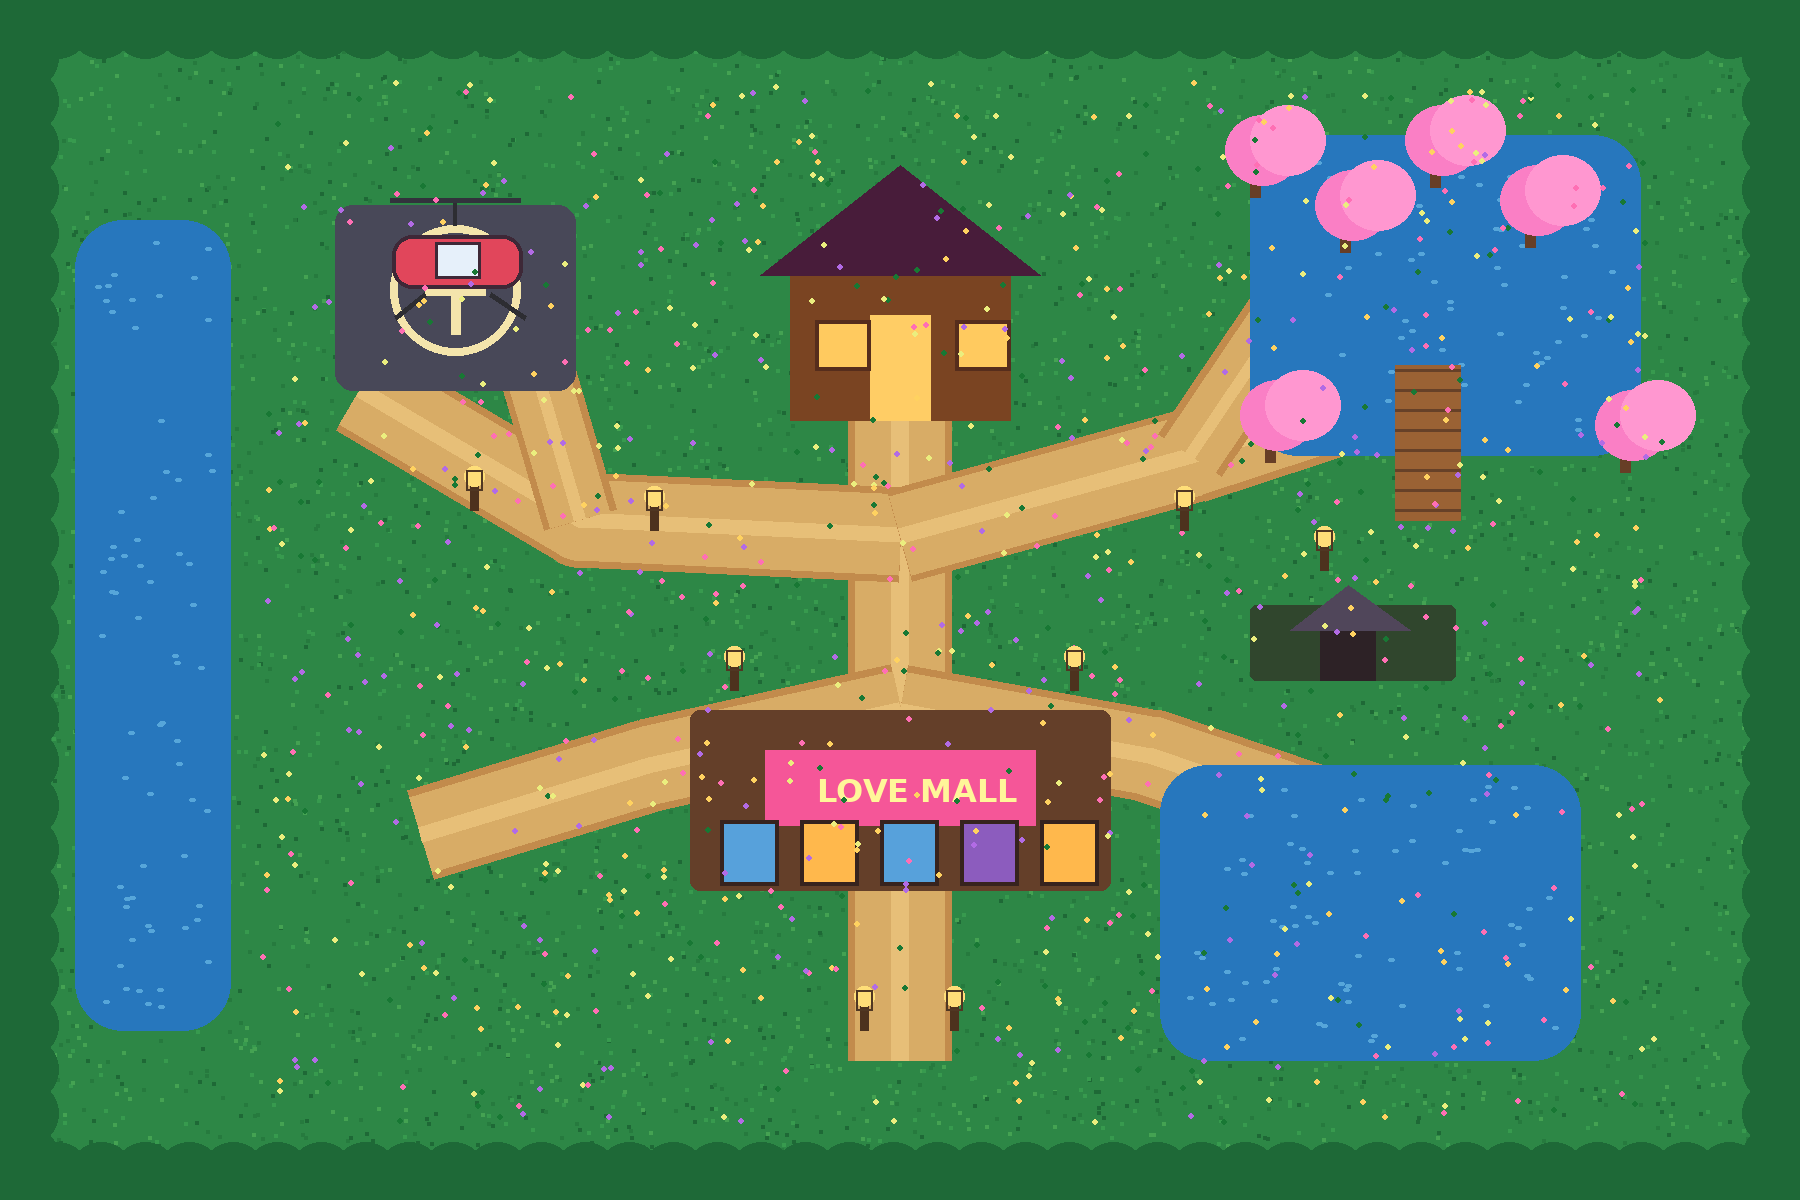
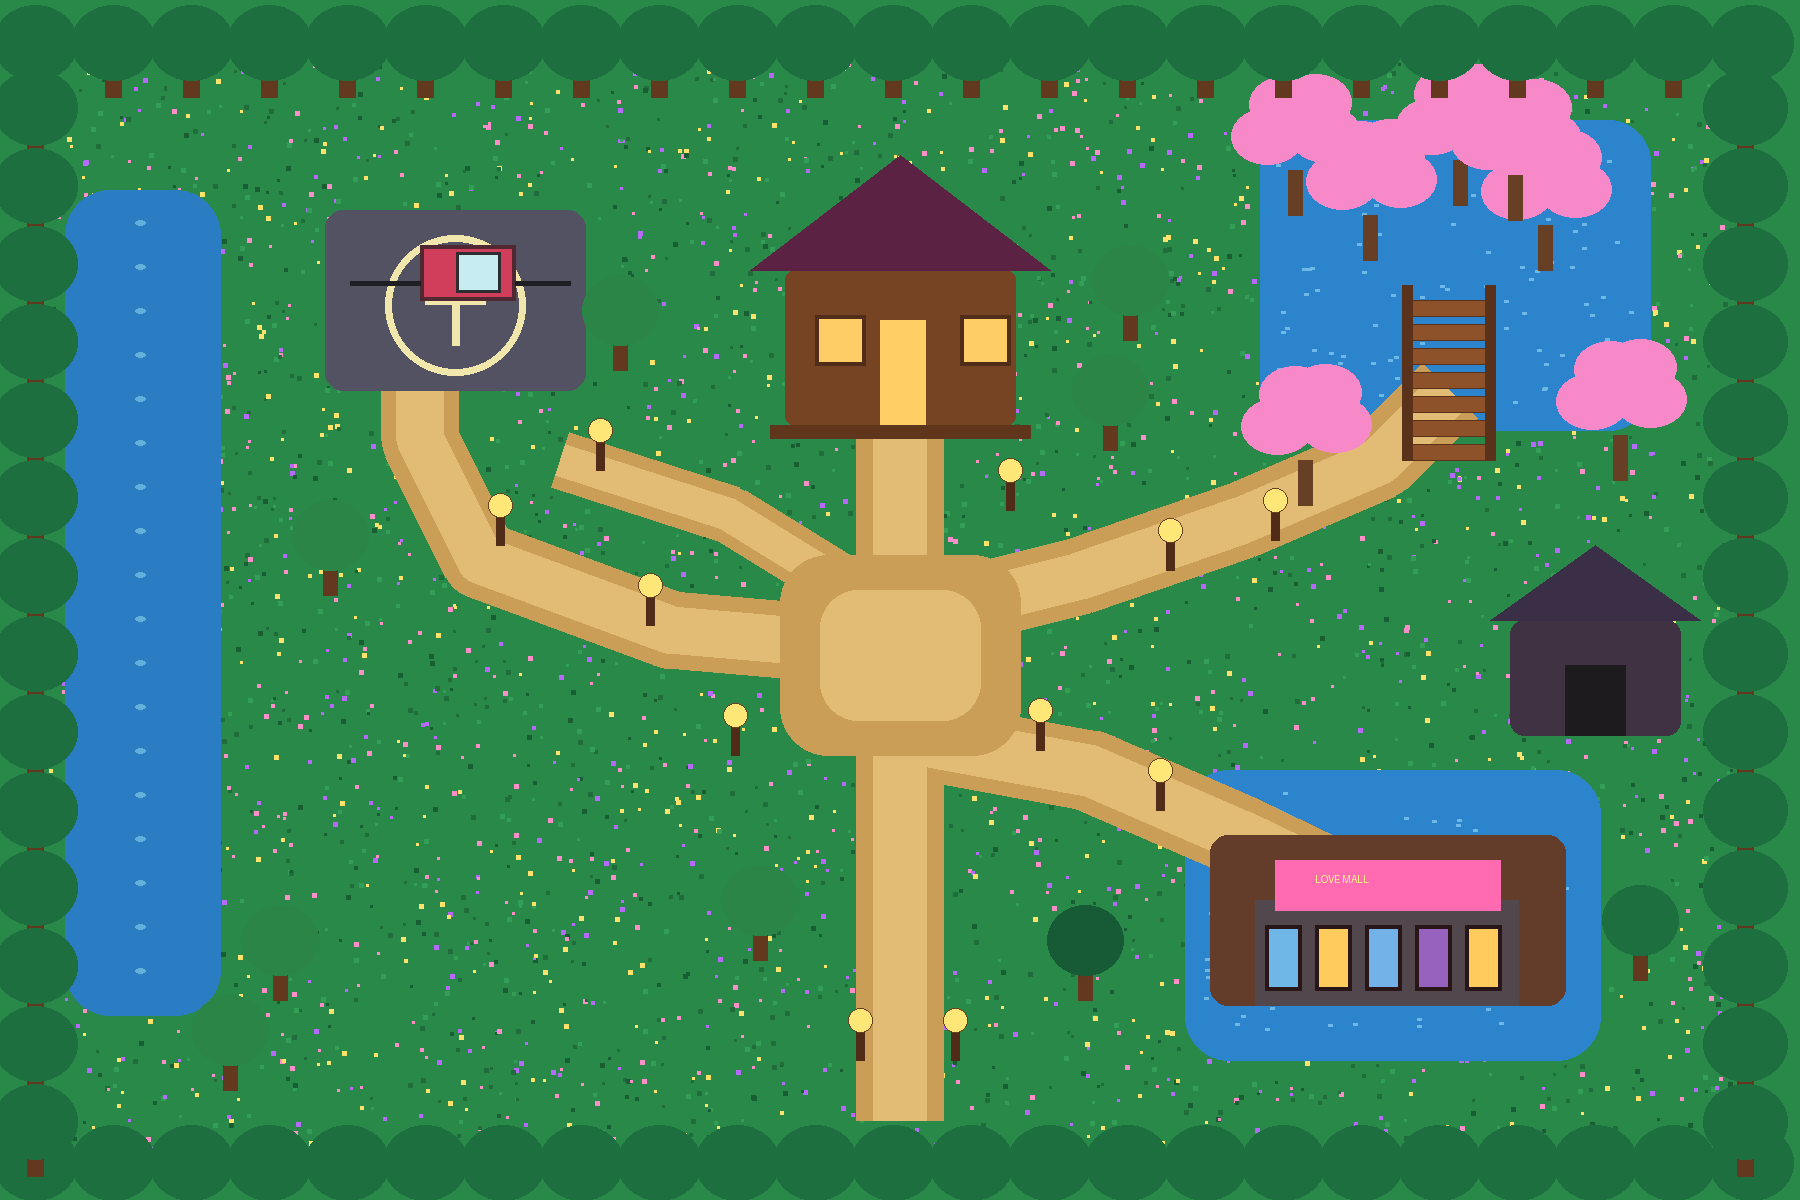
Add files via upload

diff --git a/index.html b/index.html
@@ -1,43 +1,7 @@
-<!doctype html>
-<html>
-<head>
-<meta charset="utf-8">
-<meta name="viewport" content="width=device-width,initial-scale=1">
-
-<title>One Year Together</title>
-
-<link rel="stylesheet" href="css/style.css">
-
-<link rel="icon" href="favicon.ico" type="image/x-icon">
-<link rel="icon" type="image/png" sizes="32x32" href="favicon-32.png">
-<link rel="apple-touch-icon" sizes="180x180" href="favicon-180.png">
-
-</head>
-
-<body>
+<!doctype html><html><head><meta charset="utf-8"><meta name="viewport" content="width=device-width,initial-scale=1"><title>One Year Together</title><link rel="stylesheet" href="css/style.css"></head><body>
 <canvas id="game"></canvas>
-
-<div class="panel title">
-    <h1>One Year Together ♥</h1>
-    <p>Anniversary World</p>
-</div>
-
-<div class="panel controls">
-    <b>Controls</b><br>
-    Her: Arrow Keys<br>
-    Me: W A S D<br>
-    Open: E
-</div>
-
-<div class="panel players">
-    <b>Players</b><br>
-    <img class="portrait" src="assets/sprites/her_atlas.png">
-    <img class="portrait" src="assets/sprites/him_atlas.png">
-</div>
-
-<div id="prompt" class="prompt"></div>
-<div class="hint">Both characters are on the map. Walk either one close to a place.</div>
-
-<script src="js/game.js"></script>
-</body>
-</html>
+<div class="panel title"><h1>One Year Together ♥</h1><p>Anniversary World</p></div>
+<div class="panel controls"><b>Controls</b><br>Her: Arrow Keys<br>Me: W A S D<br>Open: E</div>
+<div class="panel players"><b>Players</b><br><img class="portrait" src="assets/sprites/her_atlas.png"><img class="portrait" src="assets/sprites/him_atlas.png"></div>
+<div id="prompt" class="prompt"></div><div class="hint">Both characters are on the map. Walk either one close to a place.</div>
+<script src="js/game.js"></script></body></html>

diff --git a/js/game.js b/js/game.js
@@ -1,6 +1,6 @@
+
 const canvas = document.getElementById('game');
 const ctx = canvas.getContext('2d');
-ctx.imageSmoothingEnabled = false;
 function resize(){ canvas.width = innerWidth; canvas.height = innerHeight; ctx.imageSmoothingEnabled = false; }
 addEventListener('resize', resize); resize();
 
@@ -9,39 +9,44 @@ const herImg = new Image(); herImg.src = 'assets/sprites/her_atlas.png';
 const himImg = new Image(); himImg.src = 'assets/sprites/him_atlas.png';
 
 const keys = {};
-addEventListener('keydown', e => { keys[e.key.toLowerCase()] = true; if(['arrowup','arrowdown','arrowleft','arrowright',' '].includes(e.key.toLowerCase())) e.preventDefault(); });
+addEventListener('keydown', e => {
+  keys[e.key.toLowerCase()] = true;
+  if(['arrowup','arrowdown','arrowleft','arrowright',' '].includes(e.key.toLowerCase())) e.preventDefault();
+});
 addEventListener('keyup', e => keys[e.key.toLowerCase()] = false);
 
 const locs = [
   {name:'Helipad', x:455, y:330, r:115, page:'helipad.html', text:'Press E to board the helicopter 🚁'},
-  {name:'Main Cabin', x:900, y:435, r:120, page:'cabin.html', text:'Press E to enter the cabin 🏡'},
-  {name:'Cherry Blossom Lake', x:1440, y:500, r:130, page:'cherry-lake.html', text:'Press E to visit Cherry Blossom Lake 🌸'},
-  {name:'Shopping Center', x:900, y:900, r:140, page:'shopping.html', text:'Press E to enter the shopping center 🛍️'},
-  {name:'Future Spot', x:1350, y:710, r:90, page:null, text:'Locked for later 💕'}
+  {name:'Main Cabin', x:900, y:410, r:125, page:'cabin.html', text:'Press E to enter the cabin 🏡'},
+  {name:'Cherry Blossom Lake', x:1450, y:405, r:150, page:'cherry-lake.html', text:'Press E to visit Cherry Blossom Lake 🌸'},
+  {name:'Shopping Center', x:1385, y:935, r:150, page:'shopping.html', text:'Press E to enter the shopping center 🛍️'},
+  {name:'Future Spot', x:1595, y:680, r:95, page:null, text:'Locked for later 💕'}
 ];
 
+// Keep this light for now so testing feels fun instead of getting stuck.
 const solid = [
-  {x:0,y:0,w:250,h:1200},{x:1650,y:0,w:160,h:1200},
-  {x:0,y:0,w:1800,h:70},{x:0,y:1120,w:1800,h:90},
-  {x:75,y:220,w:155,h:810},{x:1250,y:135,w:390,h:320},{x:1160,y:765,w:420,h:295},
-  {x:335,y:205,w:240,h:185},{x:790,y:250,w:220,h:180},{x:690,y:710,w:420,h:180}
+  {x:0,y:0,w:40,h:1200},{x:1760,y:0,w:40,h:1200},{x:0,y:0,w:1800,h:40},{x:0,y:1160,w:1800,h:40},
+  {x:65,y:190,w:155,h:825}, {x:1260,y:120,w:390,h:310}, {x:1185,y:770,w:415,h:290},
+  {x:785,y:270,w:230,h:165}, {x:325,y:210,w:260,h:180}, {x:1210,y:835,w:355,h:170}, {x:1510,y:620,w:170,h:115}
 ];
 function rectHit(x,y){ return solid.some(s=>x>s.x&&x<s.x+s.w&&y>s.y&&y<s.y+s.h); }
 
 const players = {
-  her:{img:herImg, cols:4, x:1000, y:1010, dir:0, frame:0, speed:3.2, name:'Her'},
-  him:{img:himImg, cols:3, x:820, y:1010, dir:0, frame:0, speed:3.2, name:'Me'}
+  her:{img:herImg, cols:4, x:840, y:1080, dir:0, frame:0, speed:3.2, name:'Her'},
+  him:{img:himImg, cols:3, x:955, y:1080, dir:0, frame:0, speed:3.2, name:'Me'}
 };
-// dir rows: 0 front, 1 side/right, 2 back, 3 side/left
+// atlas rows: 0 front, 1 right, 2 back, 3 left
 function movePlayer(p, input){
   let dx=0,dy=0;
   if(input.up) dy-=1; if(input.down) dy+=1; if(input.left) dx-=1; if(input.right) dx+=1;
   if(dx||dy){
     const len=Math.hypot(dx,dy); dx/=len; dy/=len;
-    if(Math.abs(dx)>Math.abs(dy)) p.dir = dx>0 ? 1 : 3; else p.dir = dy>0 ? 0 : 2;
+    if(Math.abs(dx)>Math.abs(dy)) p.dir = dx>0 ? 1 : 3;
+    else p.dir = dy>0 ? 0 : 2;
     let nx=p.x+dx*p.speed, ny=p.y+dy*p.speed;
     if(!rectHit(nx,p.y)) p.x=nx; if(!rectHit(p.x,ny)) p.y=ny;
-    p.frameTimer=(p.frameTimer||0)+1; if(p.frameTimer>8){p.frame=(p.frame+1)%p.cols;p.frameTimer=0;}
+    p.frameTimer=(p.frameTimer||0)+1;
+    if(p.frameTimer>7){ p.frame=(p.frame+1)%p.cols; p.frameTimer=0; }
   } else { p.frame=0; p.frameTimer=0; }
 }
 function dist(a,b){ return Math.hypot(a.x-b.x,a.y-b.y); }
@@ -61,20 +66,14 @@ function drawSprite(p,camera){
   const dx=Math.round(p.x-camera.x-sw/2), dy=Math.round(p.y-camera.y-sh+18);
   ctx.drawImage(p.img, p.frame*sw, p.dir*sh, sw, sh, dx, dy, sw, sh);
 }
-function label(text,x,y,camera){
-  const sx=x-camera.x, sy=y-camera.y;
-  ctx.fillStyle='rgba(30,16,18,.86)'; ctx.strokeStyle='#b17142'; ctx.lineWidth=3;
-  ctx.fillRect(sx-120,sy-35,240,58); ctx.strokeRect(sx-120,sy-35,240,58);
-  ctx.fillStyle='#ffe18b'; ctx.font='18px monospace'; ctx.textAlign='center';
-  ctx.fillText(text,sx,sy-8); ctx.font='14px monospace'; ctx.fillText('walk close + press E',sx,sy+13);
-}
 function draw(){
   const cx=(players.her.x+players.him.x)/2, cy=(players.her.y+players.him.y)/2;
   const camera={x:Math.max(0,Math.min(1800-canvas.width,cx-canvas.width/2)), y:Math.max(0,Math.min(1200-canvas.height,cy-canvas.height/2))};
   ctx.clearRect(0,0,canvas.width,canvas.height);
   ctx.drawImage(map,-camera.x,-camera.y);
-  label('Helipad',455,175,camera); label('Main Cabin',900,225,camera); label('Cherry Lake',1445,165,camera); label('Shopping Center',900,680,camera); label('Future Spot',1350,585,camera);
-  const arr=[players.her,players.him].sort((a,b)=>a.y-b.y); arr.forEach(p=>drawSprite(p,camera));
+  // No permanent popups on the map. The only popup is the nearby prompt.
+  const arr=[players.her,players.him].sort((a,b)=>a.y-b.y);
+  arr.forEach(p=>drawSprite(p,camera));
 }
 function loop(){update(); draw(); requestAnimationFrame(loop)}
 Promise.all([map.decode(), herImg.decode(), himImg.decode()]).then(loop);